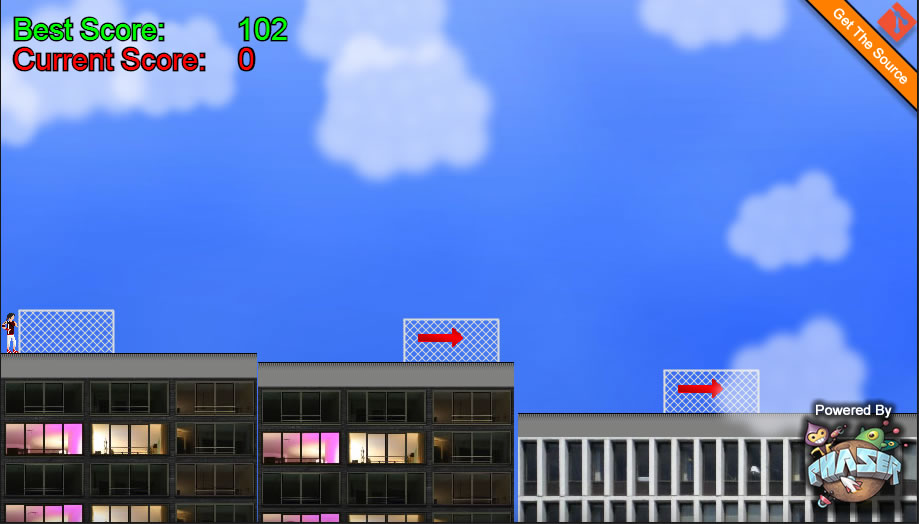
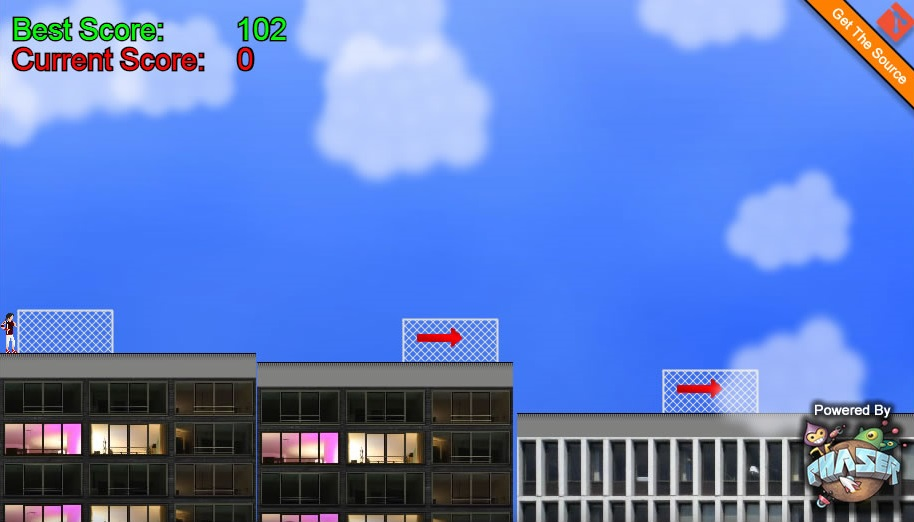
cropped image to hide ugly border

diff --git a/experiments.md b/experiments.md
@@ -9,7 +9,7 @@ On this page you can see random projects and tinkerings I have made over the yea
 <br>
 <br>
 
-### Mirrorless Edge (Mini Ludum Dare Entry, March 2014)</h3>
+### Mirrorless Edge (Mini Ludum Dare Entry, March 2014)
 This is a little game I made with [my friend Steven,](http://sbatman.com/) back in March 2014. 
 We used typescript for this *(because it is **awesome**)*. The game is a simple endless runner but can still be quite addictive. Click the image below to load the game in your browser and use the arrow keys to play.
 
